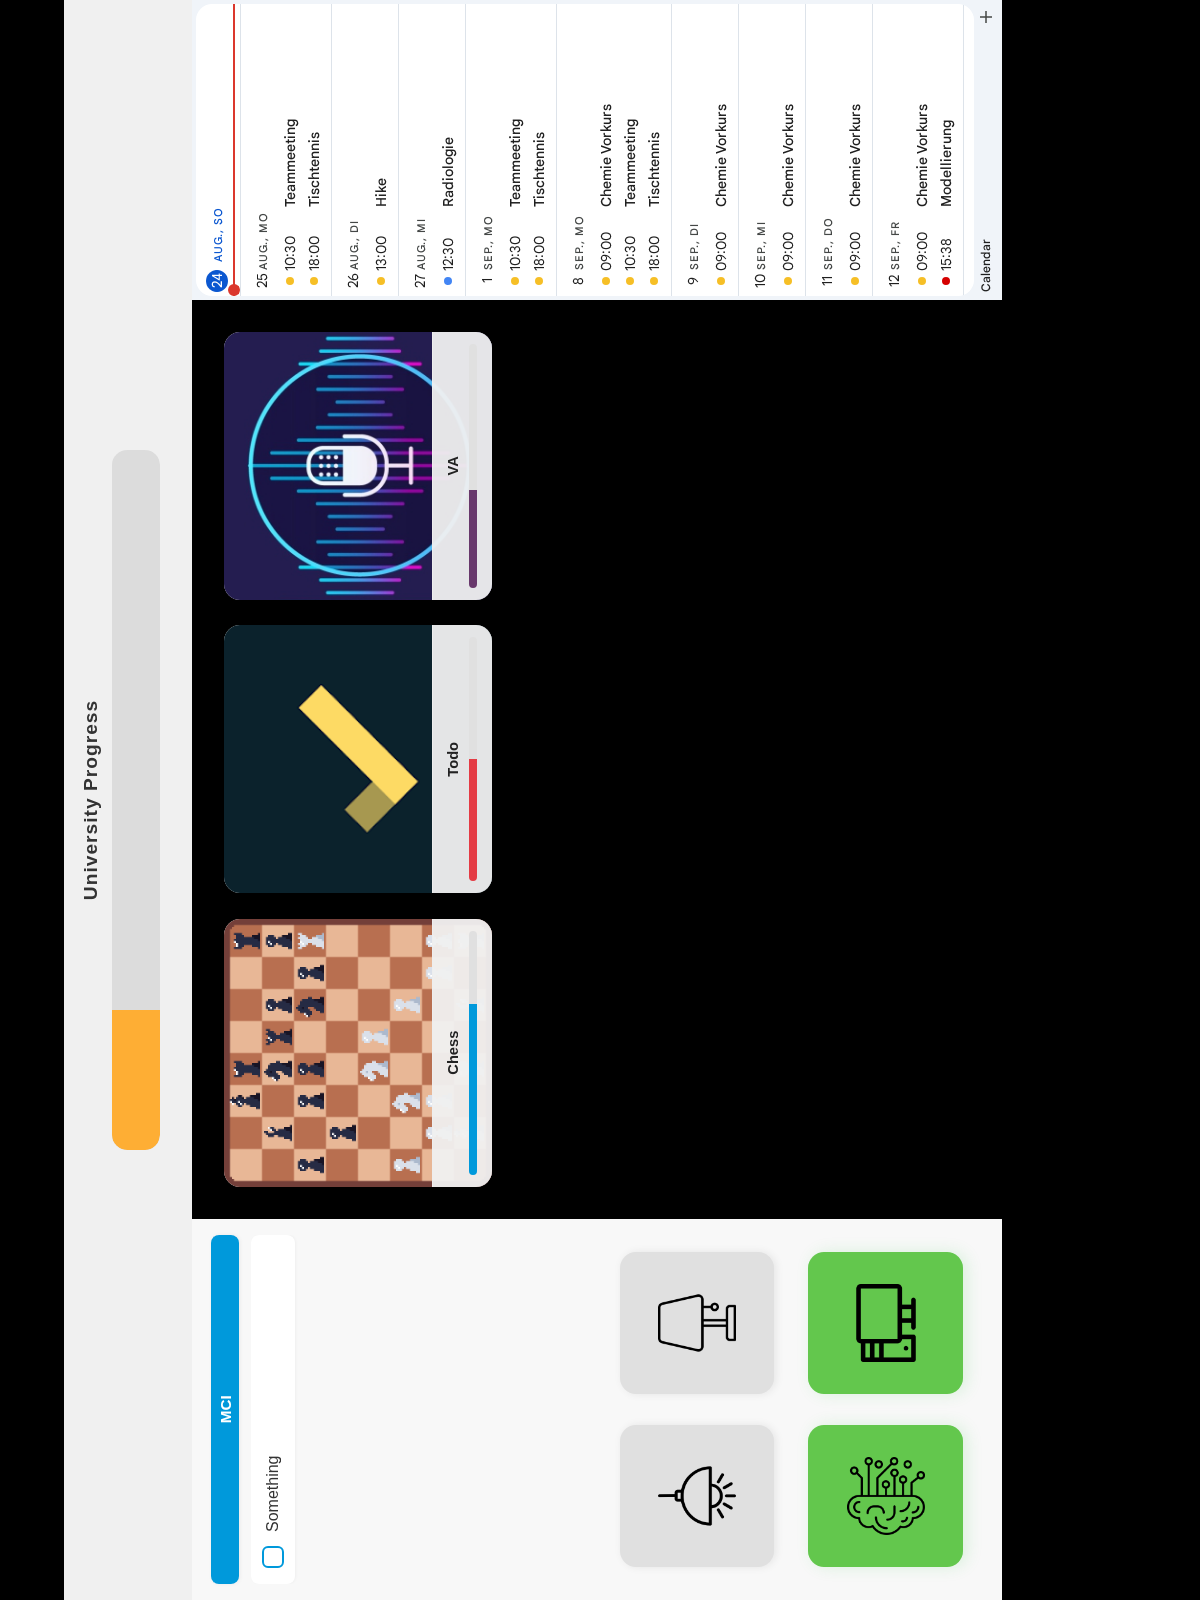
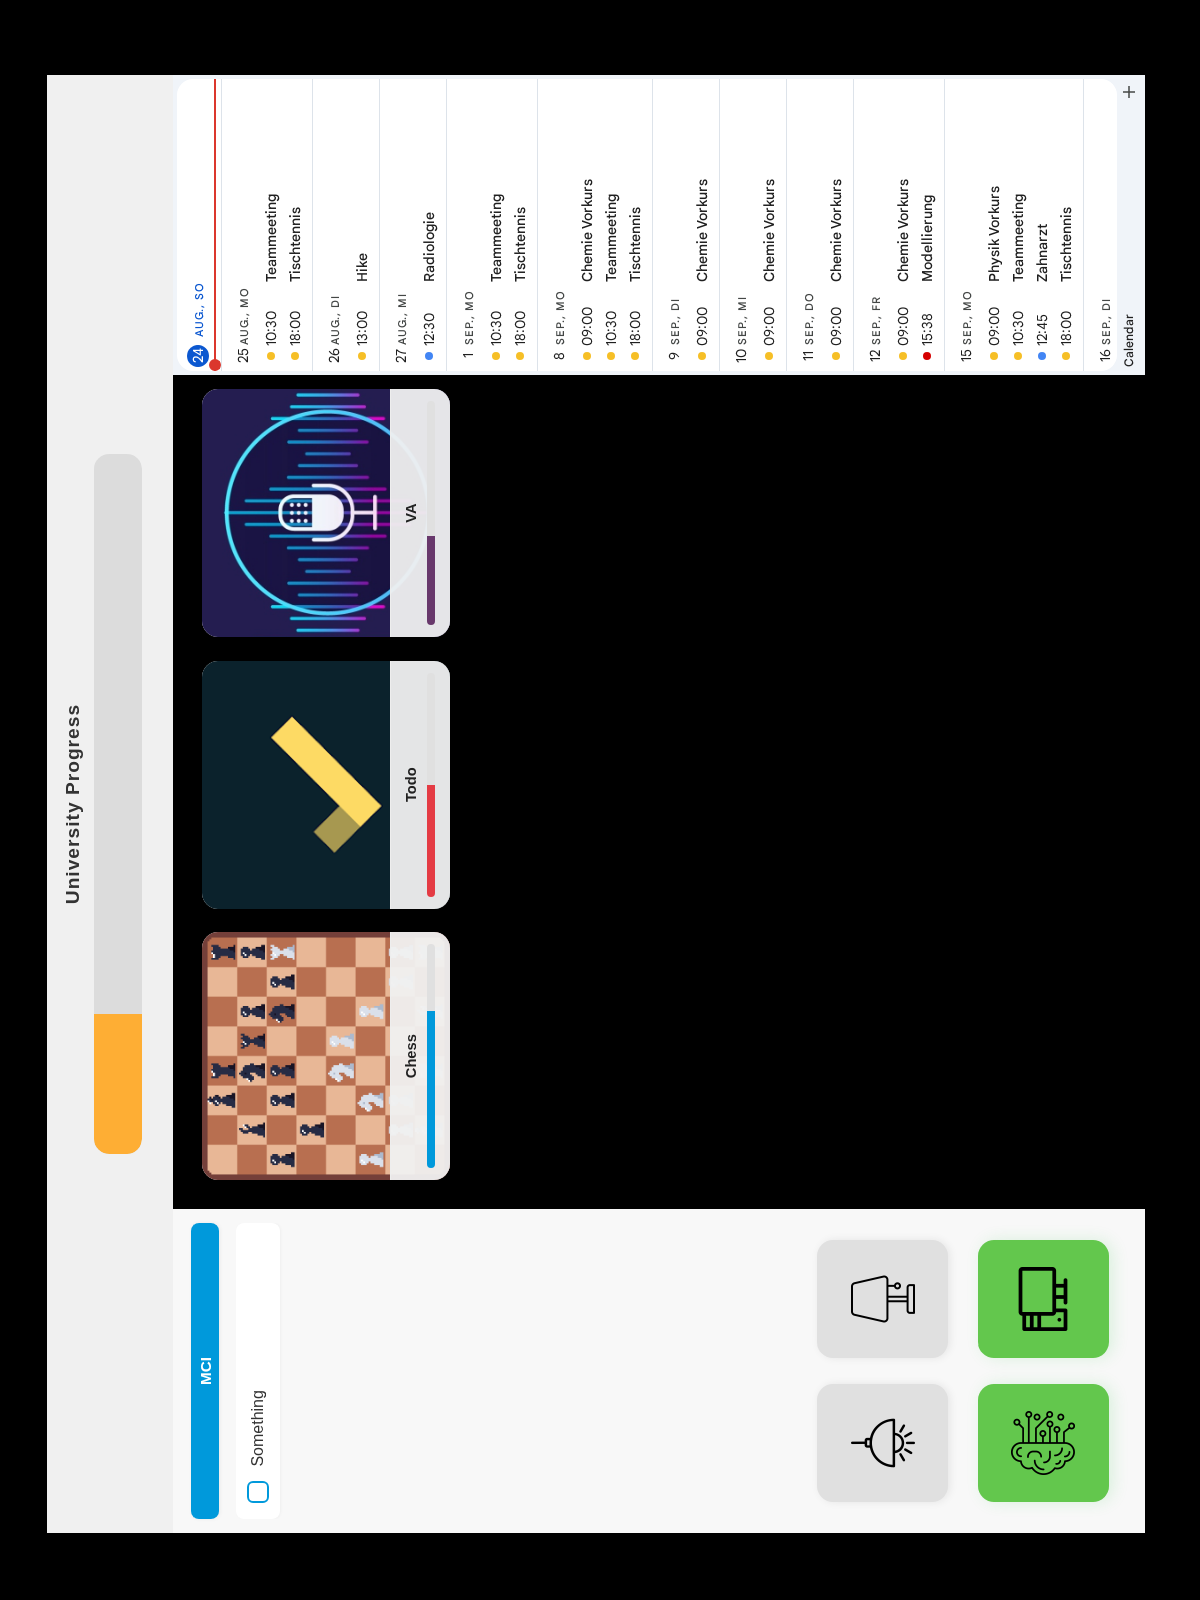
webpage added borders

diff --git a/rapi/index.html b/rapi/index.html
@@ -4,46 +4,47 @@
     <link rel="stylesheet" href="style.css">
 </head>
 <body>
-
-    <!-- Top Progress Bar -->
-    <div class="top-panel">
-        <div class="progress-label">Uni Progress</div>
-        <div class="total-uni-progress">
-            <div class="background">
-                <div class="foreground"></div>
-            </div>
-        </div>
-    </div>
-
-    <div class="main-content">
-        <!-- Left Side -->
-        <div class="left-panel">
-            <!-- Circular Progress Bars -->
-            <div class="circle-progress-list" id="circle-progress-list">
-                <!-- JS will render circular progress bars here -->
-            </div>
-            <!-- Todo List -->
-            <div class="todo-list-container">
-                <ul class="todo-list" id="todo-list">
-                    <!-- JS will render todo items here -->
-                </ul>
-            </div>
-            <!-- IoT Buttons -->
-            <div class="iot-box">
-                <div class="iot-grid" id="iot-grid">
-                    <!-- JS will render IoT buttons here -->
+    <div class="viewport">
+        <!-- Top Progress Bar -->
+        <div class="top-panel">
+            <div class="progress-label">Uni Progress</div>
+            <div class="total-uni-progress">
+                <div class="background">
+                    <div class="foreground"></div>
                 </div>
             </div>
         </div>
 
-        <!-- Middle -->
-        <div class="middle-panel" id="middle-panel">
-            <!-- JS will render the project buttons here -->
-        </div>
+        <div class="main-content">
+            <!-- Left Side -->
+            <div class="left-panel">
+                <!-- Circular Progress Bars -->
+                <div class="circle-progress-list" id="circle-progress-list">
+                    <!-- JS will render circular progress bars here -->
+                </div>
+                <!-- Todo List -->
+                <div class="todo-list-container">
+                    <ul class="todo-list" id="todo-list">
+                        <!-- JS will render todo items here -->
+                    </ul>
+                </div>
+                <!-- IoT Buttons -->
+                <div class="iot-box">
+                    <div class="iot-grid" id="iot-grid">
+                        <!-- JS will render IoT buttons here -->
+                    </div>
+                </div>
+            </div>
 
-        <!-- Right Side -->
-        <div class="right-panel">
-            <iframe src="https://calendar.google.com/calendar/embed?height=1104&wkst=2&ctz=Europe%2FBerlin&showPrint=0&showNav=0&showDate=0&showTabs=0&showCalendars=0&showTz=0&title=Calendar&mode=AGENDA&hl=de&src=cGVyc29uYWxAcHVycHVyYXguZGU&src=YzUyZmE1NjJkZTA5NDBmNDZkMWFhYmMzYmEzOTkxYTFkNjQ3NjVlMDY4NjlmZTNlZmFhMzM3M2YzZWNiMDUyZUBncm91cC5jYWxlbmRhci5nb29nbGUuY29t&src=MGQyYjk3YjE2MDY3M2YyNGZiNTUyODNmZWM5ZGE3MTI4MTBlODg0OTNkYjk0MzA1MGM3YTQyMjQxZTczMmZmMkBncm91cC5jYWxlbmRhci5nb29nbGUuY29t&color=%234285f4&color=%23d50000&color=%23f6bf26" style="border-width:0" width="300" height="1104" frameborder="0" scrolling="no"></iframe>
+            <!-- Middle -->
+            <div class="middle-panel" id="middle-panel">
+                <!-- JS will render the project buttons here -->
+            </div>
+
+            <!-- Right Side -->
+            <div class="right-panel">
+                <iframe src="https://calendar.google.com/calendar/embed?height=1104&wkst=2&ctz=Europe%2FBerlin&showPrint=0&showNav=0&showDate=0&showTabs=0&showCalendars=0&showTz=0&title=Calendar&mode=AGENDA&hl=de&src=cGVyc29uYWxAcHVycHVyYXguZGU&src=YzUyZmE1NjJkZTA5NDBmNDZkMWFhYmMzYmEzOTkxYTFkNjQ3NjVlMDY4NjlmZTNlZmFhMzM3M2YzZWNiMDUyZUBncm91cC5jYWxlbmRhci5nb29nbGUuY29t&src=MGQyYjk3YjE2MDY3M2YyNGZiNTUyODNmZWM5ZGE3MTI4MTBlODg0OTNkYjk0MzA1MGM3YTQyMjQxZTczMmZmMkBncm91cC5jYWxlbmRhci5nb29nbGUuY29t&color=%234285f4&color=%23d50000&color=%23f6bf26" style="border-width:0" width="300" height="1104" frameborder="0" scrolling="no"></iframe>
+            </div>
         </div>
     </div>
     <script src="script.js"></script>

diff --git a/rapi/style.css b/rapi/style.css
@@ -4,23 +4,26 @@ html {
 }
 body {
     margin: 0;
+    padding-top: 47px;
+    padding-left: 67px;
     font-family: Arial, sans-serif;
-    background: #fff;
+    background: #000;
 }
 .top-panel {
+    width: 95.1%;
     display: flex;
     flex-direction: column;
     justify-content: center;
     align-items: center;
     padding-top: 1%;
-    height: 8%;
+    height: 7%;
     padding-bottom: 2%;
     background-color: rgb(240, 240, 240);
     /* border-radius: 0 0 30px 30px; */
 }
 .left-panel {
     height: 100%;
-    width: 25%;
+    width: 23%;
     display: flex;
     flex-direction: column;
     justify-content: space-between;
@@ -58,6 +61,16 @@ body {
     align-items: center;
     box-sizing: border-box;
 }
+.main-content {
+    display: flex;
+    flex-direction: row;
+    background-color: #fff;
+    height: 81%;
+    width: 90.2%;
+    padding: 0;
+    margin: 0;
+    position: absolute;
+}
 .progress-label {
     font-size: 1.2rem;
     font-weight: bold;
@@ -84,15 +97,6 @@ body {
     height: 100%;
     border-radius: 15px 0 0 15px;
     transition: width 0.3s;
-}
-.main-content {
-    display: flex;
-    flex-direction: row;
-    height: 89%;
-    width: 100%;
-    padding: 0;
-    margin: 0;
-    position: absolute;
 }
 .circle-progress-list {
     display: flex;
